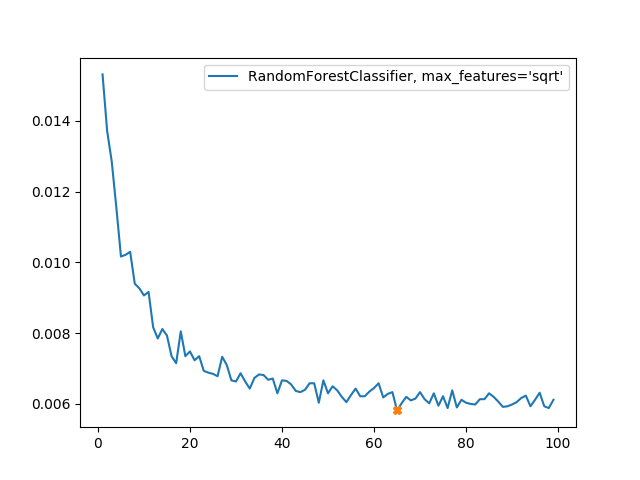
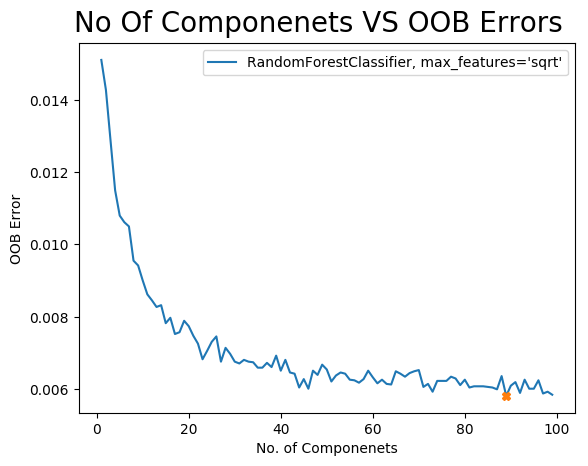
report

Changed region(s): [[0.0, 0.0, 0.9796, 0.9914], [0.9184, 0.8712, 0.9796, 0.9313]]

diff --git a/2.py b/2.py
@@ -5,13 +5,21 @@ from sklearn.ensemble import RandomForestClassifier
 from sklearn.metrics import accuracy_score, confusion_matrix, roc_curve, auc
 import weka.core.jvm as jvm
 import itertools
+from pandas.plotting import scatter_matrix
 ##################################################### Common Functions #################################################
 def read_data():
     train_data = pd.read_csv("aps_failure_training_set.csv", skip_blank_lines=False)
     test_data = pd.read_csv("aps_failure_test_set.csv", skip_blank_lines=False)
 
     return train_data,test_data
-
+def scatterplot(X, Y, xLabel, yLabel, xticks=None, yticks=None):
+    plt.scatter(X, Y, s=2)
+    plt.xlabel(xLabel)
+    if xticks is not None:
+        plt.xticks(np.arange(xticks.size), xticks)
+    if yticks is not None:
+        plt.yticks(np.arange(yticks.size), yticks)
+    plt.ylabel(yLabel)
 def plot_corr(correlations, columns):
     fig = plt.figure(figsize=(30,30))
     ax = fig.add_subplot(111)
@@ -23,6 +31,7 @@ def plot_corr(correlations, columns):
     ax.set_xticklabels(columns)
     ax.set_yticklabels(columns)
     plt.xticks(rotation=90)
+    plt.suptitle("Correlation Matrix", fontsize=20, y=0.95)
     savefig("./plots/2_b_iii_correlations.png")
 def plot_confusion_matrix(cm, classes, normalize=False, title='Confusion matrix', cmap=plt.cm.Blues):
     """
@@ -111,7 +120,34 @@ def b_iii_correlation_matrix():
     plot_corr(correlations, train_data.columns.values)
 # ======================================================================================================================
 def b_iv_plots():
-    train_data, test_data = b_i_impute_data()
+    response_var = "class"
+    CV_series = b_ii_coefficient_variation()
+    train_data, test_data  = b_i_impute_data()
+
+    top_cvs = CV_series.head(13)
+    Y = train_data[response_var]
+    fig = plt.figure(figsize=(20, 10))
+    box_plot_data = train_data[top_cvs.index]
+    plt.boxplot(box_plot_data.as_matrix(), labels=top_cvs.index.values)
+    plt.suptitle("Box Plots of top 13 Features",fontsize=20, y=0.95)
+    plt.savefig("./plots/2_e_boxplot.png", bbox_inches='tight')
+    plt.close()
+
+    axs = scatter_matrix(box_plot_data, figsize=(21, 21))
+    n = len(box_plot_data.columns)
+    for x in range(n):
+        for y in range(n):
+            # to get the axis of subplots
+            ax = axs[x, y]
+            # to make x axis name vertical
+            ax.xaxis.label.set_rotation(90)
+            # to make y axis name horizontal
+            ax.yaxis.label.set_rotation(0)
+            # to make sure y axis names are outside the plot area
+            ax.yaxis.labelpad = 50
+    plt.suptitle("Scatter plot of pair wise features",fontsize=20, y=0.95)
+    plt.savefig("./plots/2_e_scatter_plots.png", bbox_inches='tight')
+    plt.close()
 
 # ======================================================================================================================
 def b_v_numberof_pos_neg():
@@ -148,6 +184,9 @@ def c_random_forest():
     plt.plot(n_componenets,oob_errors,label = "RandomForestClassifier, max_features='sqrt'")
     plt.plot(n_componenets[min_index],oob_errors[min_index],marker='X', ms=6)
     plt.legend(loc="upper right")
+    plt.suptitle("No Of Componenets VS OOB Errors", fontsize=20, y=0.95)
+    plt.xlabel("No. of Componenets")
+    plt.ylabel("OOB Error")
     savefig("./plots/2_c_oob_errors.png")
     plt.close()
 
@@ -163,7 +202,7 @@ def c_random_forest():
 
     plt.figure()
     plot_confusion_matrix(cm, classes=["neg", "pos"],
-                          title='Confusion matrix, without normalization')
+                          title='Train Data Confusion matrix, without normalization')
     savefig("./plots/2_c_train_confusion_matrix.png")
     plt.close()
 
@@ -174,17 +213,19 @@ def c_random_forest():
     cm = confusion_matrix(y_test, y_predict, labels=["neg", "pos"])
     plt.figure()
     plot_confusion_matrix(cm, classes=["neg", "pos"],
-                          title='Confusion matrix, without normalization')
+                          title='Test Data Confusion matrix, without normalization')
     savefig("./plots/2_c_test_confusion_matrix.png")
     plt.close()
 
     #ROC curve Train Data
     Y_score = rfc.predict_proba(x_train)[:,1:]
+    plt.suptitle("Train ROC Curve", fontsize=20, y=0.95)
     plot_roc_curve(y_train,Y_score,"./plots/2_c_train_ROC_curve.png")
     plt.close()
 
     # ROC curve Test Data
     Y_score = rfc.predict_proba(x_test)[:, 1:]
+    plt.suptitle("Test ROC Curve", fontsize=20, y=0.95)
     plot_roc_curve(y_test, Y_score, "./plots/2_c_test_ROC_curve.png")
     plt.close()
 # ======================================================================================================================
@@ -217,6 +258,9 @@ def d_random_forest_balanced():
     plt.plot(n_componenets,oob_errors,label = "RandomForestClassifier, max_features='sqrt'")
     plt.plot(n_componenets[min_index],oob_errors[min_index],marker='X', ms=6)
     plt.legend(loc="upper right")
+    plt.suptitle("No Of Componenets VS OOB Errors", fontsize=20, y=0.95)
+    plt.xlabel("No. of Componenets")
+    plt.ylabel("OOB Error")
     savefig("./plots/2_d_oob_errors.png")
     plt.close()
 
@@ -232,7 +276,7 @@ def d_random_forest_balanced():
 
     plt.figure()
     plot_confusion_matrix(cm, classes=["neg", "pos"],
-                          title='Confusion matrix, without normalization')
+                          title='Train Data Confusion matrix, without normalization')
     savefig("./plots/2_d_train_confusion_matrix.png")
     plt.close()
 
@@ -243,17 +287,19 @@ def d_random_forest_balanced():
     cm = confusion_matrix(y_test, y_predict, labels=["neg", "pos"])
     plt.figure()
     plot_confusion_matrix(cm, classes=["neg", "pos"],
-                          title='Confusion matrix, without normalization')
+                          title='Test Data Confusion matrix, without normalization')
     savefig("./plots/2_d_test_confusion_matrix.png")
     plt.close()
 
     #ROC curve Train Data
     Y_score = rfc.predict_proba(x_train)[:,1:]
+    plt.suptitle("Train ROC Curve", fontsize=20, y=0.95)
     plot_roc_curve(y_train,Y_score,"./plots/2_d_train_ROC_curve.png")
     plt.close()
 
     # ROC curve Test Data
     Y_score = rfc.predict_proba(x_test)[:, 1:]
+    plt.suptitle("Test ROC Curve", fontsize=20, y=0.95)
     plot_roc_curve(y_test, Y_score, "./plots/2_d_test_ROC_curve.png")
     plt.close()
 
@@ -291,6 +337,7 @@ def e_model_tree():
     print("Train confusion matrix")
     print(evl.confusion_matrix)
     plcls.plot_roc(evl, class_index=[0, 1], wait=True)
+    plt.suptitle("Train ROC Curve", fontsize=20, y=0.95)
     savefig("./plots/e_train_roc_curve.png")
 
     evl = Evaluation(test_data)
@@ -303,6 +350,7 @@ def e_model_tree():
     print("Testconfusion matrix")
     print(evl.confusion_matrix)
     plcls.plot_roc(evl, class_index=[0, 1], wait=True)
+    plt.suptitle("Test ROC Curve", fontsize=20, y=0.95)
     savefig("./plots/e_test_roc_curve.png")
 
     # train_data, test_data = b_i_impute_data()
@@ -374,6 +422,7 @@ def f_smote():
     print("Testconfusion matrix")
     print(evl.confusion_matrix)
     plcls.plot_roc(evl, class_index=[0, 1], wait=True)
+    plt.suptitle("Test ROC Curve", fontsize=20, y=0.95)
     savefig("./plots/f_test_roc_curve.png")
 
 
@@ -382,8 +431,9 @@ if __name__ == '__main__':
     #b_i_impute_data()
     #b_ii_coefficient_variation()s
     #b_iii_correlation_matrix()
+    b_iv_plots()
     #b_v_numberof_pos_neg()
     #c_random_forest()
     #d_random_forest_balanced()
     #e_model_tree()
-    f_smote()
+    #f_smote()

diff --git a/1.py b/1.py
@@ -75,6 +75,7 @@ def e_plots():
     fig = plt.figure(figsize=(20, 10))
     box_plot_data = train_data[top_cvs.index]
     plt.boxplot(box_plot_data.as_matrix(), labels=top_cvs.index.values)
+    plt.suptitle("Box Plots of top 11 Features",fontsize=20, y=0.95)
     plt.savefig("./plots/1_e_boxplot.png", bbox_inches='tight')
     plt.close()
 
@@ -85,6 +86,7 @@ def e_plots():
         X = train_data[key]
         scatterplot(X,Y, key, response_var)
         i += 1
+    plt.suptitle("Scatter plot of Features VS Response",fontsize=20, y=0.95)
     plt.savefig("./plots/1_e_scatter_plots_response.png", bbox_inches='tight')
     plt.close()
 
@@ -100,7 +102,7 @@ def e_plots():
             ax.yaxis.label.set_rotation(0)
             # to make sure y axis names are outside the plot area
             ax.yaxis.labelpad = 50
-
+    plt.suptitle("Scatter plot of pair wise features",fontsize=20, y=0.95)
     plt.savefig("./plots/1_e_scatter_plots.png", bbox_inches='tight')
     plt.close()
 #=======================================================================================================================
@@ -225,6 +227,7 @@ def i_pcr():
     plt.ylabel("Test MSE")
     # plt.plot(components[index], cv_scores[index],marker='X', ms=6)
     # print(components[index], cv_scores[index])
+    plt.suptitle("Componenets VS MSE", fontsize=20, y=0.95)
     plt.savefig("./plots/1_i_pcr_mse.png")
     plt.close()
 
@@ -233,6 +236,7 @@ def i_pcr():
     # print(components[index], cv_scores[index])
     plt.xlabel("n components")
     plt.ylabel("Variance Explained")
+    plt.suptitle("Componenets VS Variance Scores", fontsize=20, y=0.95)
     plt.savefig("./plots/1_i_pcr_cv_score.png")
 #=======================================================================================================================
 def j_xg_boost():
@@ -276,6 +280,7 @@ def j_xg_boost():
     plt.xlabel("regularization parameter")
     plt.ylabel("Cross Validation Score")
     plt.legend(loc="upper right")
+    plt.suptitle("alpha Values VS Cross Validation Scores", fontsize=15, y=0.95)
     plt.savefig("./plots/1_j_xgboost_alpha_reg_parameter_final.png")
 #=======================================================================================================================
 if __name__ == '__main__':
@@ -284,12 +289,12 @@ if __name__ == '__main__':
     #b_fill_nan()
     #c_correlation_matrix()
     #d_coefficient_variation()
-    #e_plots()
+    e_plots()
     #f_linear_regression()
     #g_ridge_regression()
     #h_lasso_regresion()
     #i_pcr()
-    j_xg_boost()
+    #j_xg_boost()
 
 
 

diff --git a/README.md b/README.md
@@ -1,3 +1,4 @@
+# PLOT NAMES
 # homework1-kaladharusc ( USC ID: 7761016469 )
 ## 1) The LASSO and Boosting for Regression
 ### a) Download and read data
@@ -158,7 +159,7 @@
 -   ![alt text](https://github.com/MLforDTIN-18Srping/homework3-kaladharusc/blob/master/plots/1_e_scatter_plots.png "pairwise scatter plot")
 -   ![alt text](https://github.com/MLforDTIN-18Srping/homework3-kaladharusc/blob/master/plots/1_e_scatter_plots_response.png "response feature scatter plot")
 -   ![alt text](https://github.com/MLforDTIN-18Srping/homework3-kaladharusc/blob/master/plots/1_e_boxplot.png "box plot")
--   ~TODO: Conclistions~
+-   ~TODO: Conclusions~
 
 ### f) Linear Regression:
 
@@ -234,7 +235,7 @@
 ### b) Data Preparation
 
 -   ####  i) Impute Data
-   > Test Data Shape : 60000 X 171 
+   > Train Data Shape : 60000 X 171 
 
 |   | class | aa_000 | ab_000             | ac_000       | ad_000            | ae_000 | af_000 | ag_000 | ag_001 | ag_002 | ag_003 | ag_004  | ag_005    | ag_006    | ag_007    | ag_008  | ag_009 | ah_000    | ai_000 | aj_000 | ak_000 | al_000 | am_0 | an_000    | ao_000    | ap_000    | aq_000    | ar_000 | as_000 | at_000 | au_000 | av_000 | ax_000 | ay_000 | ay_001 | ay_002 | ay_003 | ay_004 | ay_005   | ay_006    | ay_007    | ay_008   | ay_009 | az_000 | az_001 | az_002  | az_003  | az_004    | az_005    | az_006  | az_007 | az_008 | az_009 | ba_000    | ba_001    | ba_002   | ba_003   | ba_004   | ba_005   | ba_006    | ba_007   | ba_008  | ba_009 | bb_000    | bc_000 | bd_000 | be_000 | bf_000 | bg_000    | bh_000  | bi_000   | bj_000   | bk_000   | bl_000   | bm_000   | bn_000            | bo_000             | bp_000            | bq_000            | br_000            | bs_000   | bt_000   | bu_000    | bv_000    | bx_000    | by_000  | bz_000   | ca_000   | cb_000   | cc_000    | cd_000    | ce_000   | cf_000            | cg_000            | ch_000                 | ci_000     | cj_000 | ck_000    | cl_000 | cm_000 | cn_000 | cn_001 | cn_002 | cn_003   | cn_004    | cn_005    | cn_006    | cn_007  | cn_008  | cn_009 | co_000             | cp_000 | cq_000    | cr_000            | cs_000  | cs_001 | cs_002   | cs_003   | cs_004   | cs_005    | cs_006   | cs_007  | cs_008 | cs_009 | ct_000            | cu_000             | cv_000             | cx_000             | cy_000             | cz_000             | da_000            | db_000           | dc_000            | dd_000 | de_000 | df_000 | dg_000 | dh_000 | di_000 | dj_000 | dk_000 | dl_000 | dm_000 | dn_000  | do_000  | dp_000  | dq_000 | dr_000 | ds_000   | dt_000  | du_000     | dv_000    | dx_000 | dy_000 | dz_000 | ea_000 | eb_000    | ec_00   | ed_000 | ee_000   | ee_001    | ee_002    | ee_003   | ee_004   | ee_005   | ee_006   | ee_007   | ee_008  | ee_009 | ef_000 | eg_000 |
 |---|-------|--------|--------------------|--------------|-------------------|--------|--------|--------|--------|--------|--------|---------|-----------|-----------|-----------|---------|--------|-----------|--------|--------|--------|--------|------|-----------|-----------|-----------|-----------|--------|--------|--------|--------|--------|--------|--------|--------|--------|--------|--------|----------|-----------|-----------|----------|--------|--------|--------|---------|---------|-----------|-----------|---------|--------|--------|--------|-----------|-----------|----------|----------|----------|----------|-----------|----------|---------|--------|-----------|--------|--------|--------|--------|-----------|---------|----------|----------|----------|----------|----------|-------------------|--------------------|-------------------|-------------------|-------------------|----------|----------|-----------|-----------|-----------|---------|----------|----------|----------|-----------|-----------|----------|-------------------|-------------------|------------------------|------------|--------|-----------|--------|--------|--------|--------|--------|----------|-----------|-----------|-----------|---------|---------|--------|--------------------|--------|-----------|-------------------|---------|--------|----------|----------|----------|-----------|----------|---------|--------|--------|-------------------|--------------------|--------------------|--------------------|--------------------|--------------------|-------------------|------------------|-------------------|--------|--------|--------|--------|--------|--------|--------|--------|--------|--------|---------|---------|---------|--------|--------|----------|---------|------------|-----------|--------|--------|--------|--------|-----------|---------|--------|----------|-----------|-----------|----------|----------|----------|----------|----------|---------|--------|--------|--------|
@@ -419,14 +420,15 @@
 -   ####  iii) Correlation Matrix
 
    ![alt text](https://github.com/MLforDTIN-18Srping/homework3-kaladharusc/blob/master/plots/2_b_iii_correlations.png "Correlation Matrix")
-   ~TODO: Scatter plots~
-   
+
 -   ### iv) Scatter plots and box plots
-   ~TODO: Scatter plots~
+   ![alt text](https://github.com/MLforDTIN-18Srping/homework3-kaladharusc/blob/master/plots/2_b_iv_boxplot.png "Boxplot")
+   ![alt text](https://github.com/MLforDTIN-18Srping/homework3-kaladharusc/blob/master/plots/2_b_iv_scatter_plots.png "Scatter plot")
 -   ### v) Number of neg and pos
     >   neg    59000   
         pos     1000
 ### C) Random Forest: imbalanced
+
    ![alt text](https://github.com/MLforDTIN-18Srping/homework3-kaladharusc/blob/master/plots/2_c_train_confusion_matrix.png "Train Confusion Matrix")
    ![alt text](https://github.com/MLforDTIN-18Srping/homework3-kaladharusc/blob/master/plots/2_c_test_confusion_matrix.png "Test Confusion Matrix")
    ![alt text](https://github.com/MLforDTIN-18Srping/homework3-kaladharusc/blob/master/plots/2_c_train_ROC_curve.png "Train ROC")
@@ -434,12 +436,14 @@
    
    > Train Accuracy :   0.9999833333    
    > Test Accuracy: 0.9925
+   > Train Mis Classification Rate: 0.00001
+   > Test Mis Classification Rate: 0.0075
    
    ![alt text](https://github.com/MLforDTIN-18Srping/homework3-kaladharusc/blob/master/plots/2_c_oob_errors.png "Out Of Bag Error")
-
+   > OOB ERROR: 0.005
 
 ### D) Random Forest: Balanced
-
+    
    ![alt text](https://github.com/MLforDTIN-18Srping/homework3-kaladharusc/blob/master/plots/2_d_train_confusion_matrix.png "Train Confusion Matrix")
    ![alt text](https://github.com/MLforDTIN-18Srping/homework3-kaladharusc/blob/master/plots/2_d_test_confusion_matrix.png "Test Confusion Matrix")
    ![alt text](https://github.com/MLforDTIN-18Srping/homework3-kaladharusc/blob/master/plots/2_d_train_ROC_curve.png "Train ROC")
@@ -447,6 +451,8 @@
 
    > Train Accuracy :   0.99975       
    > Test Accuracy: 0.98875
+   > Train Mis Classification Rate: 0.00025
+   > Test Mis Classification Rate: 0.01125
    
    ![alt text](https://github.com/MLforDTIN-18Srping/homework3-kaladharusc/blob/master/plots/2_d_oob_errors.png "Out Of Bag Error")
    
@@ -471,8 +477,7 @@
     ~Todo TRAIN Confusion Matrix~
    
    - Test Confusion Matrix
-   [[15134.   491.]
-    [   59.   316.]]
+   ``` [[15134.   491.] [   59.   316.]]  ```
    > Train Accuracy:
    > Test Accuracy: 96.5625
     
